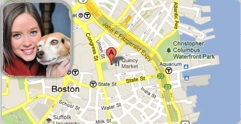
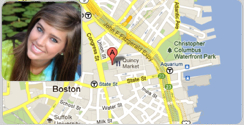
Replaced a photo, moved left side image, tried to add RSS feed

diff --git a/SlickAppTheme/HTML/index.html b/SlickAppTheme/HTML/index.html
@@ -43,9 +43,8 @@
                <b>private space</b> with a <b>single click</b> and get great tips for fun 
                getaways!</p>				
 				<ul>
-					<li>Share easily, share MORE</li>
-					<li>Share directly and privately</li>
-					<li>Store all your conversation in one beautiful space</li>
+					<li>Share easily, directly and privately. Share MORE</li>
+					<li>Store your life together in one beautiful space</li>
 			
 				</ul>
 			    
@@ -302,7 +301,7 @@
 			<ul>
 				<li class="twitter"><a href="https://twitter.com/#!/synclives">Twitter</a></li>
 				<li class="facebook"><a href="http://www.facebook.com/synclives">Facebook</a></li>
-				<li class="rss"><a href="">RSS</a></li>
+				<li class="rss"><a href="http://twitter.com/statuses/user_timeline/479079530.rss">RSS</a></li>
 			</ul>
 			<div class="clear"></div>
 		</div>

diff --git a/SlickAppTheme/HTML/stylesheets/styles.css b/SlickAppTheme/HTML/stylesheets/styles.css
@@ -31,7 +31,7 @@ div#top_content {
 	div#top_content div#app_screenshot {
 		float: left;
 		width: 380px;
-		height: 508px;
+		height: 428px;
 		background: url('../images/phone_2.jpg') no-repeat top left;
 
 	}
